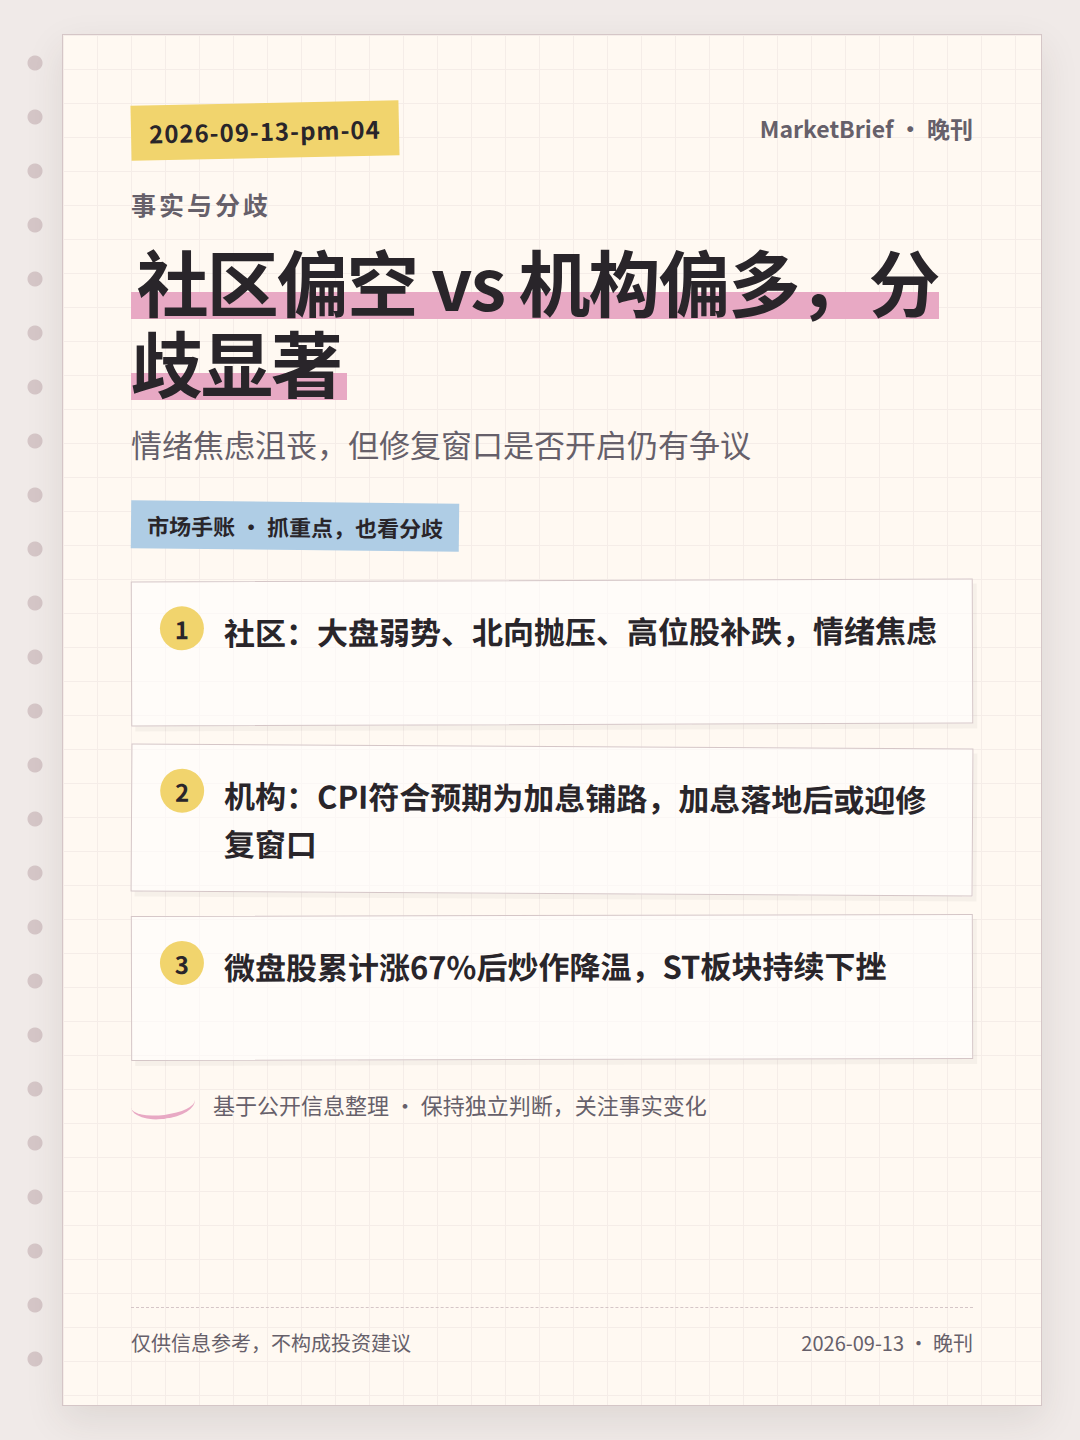
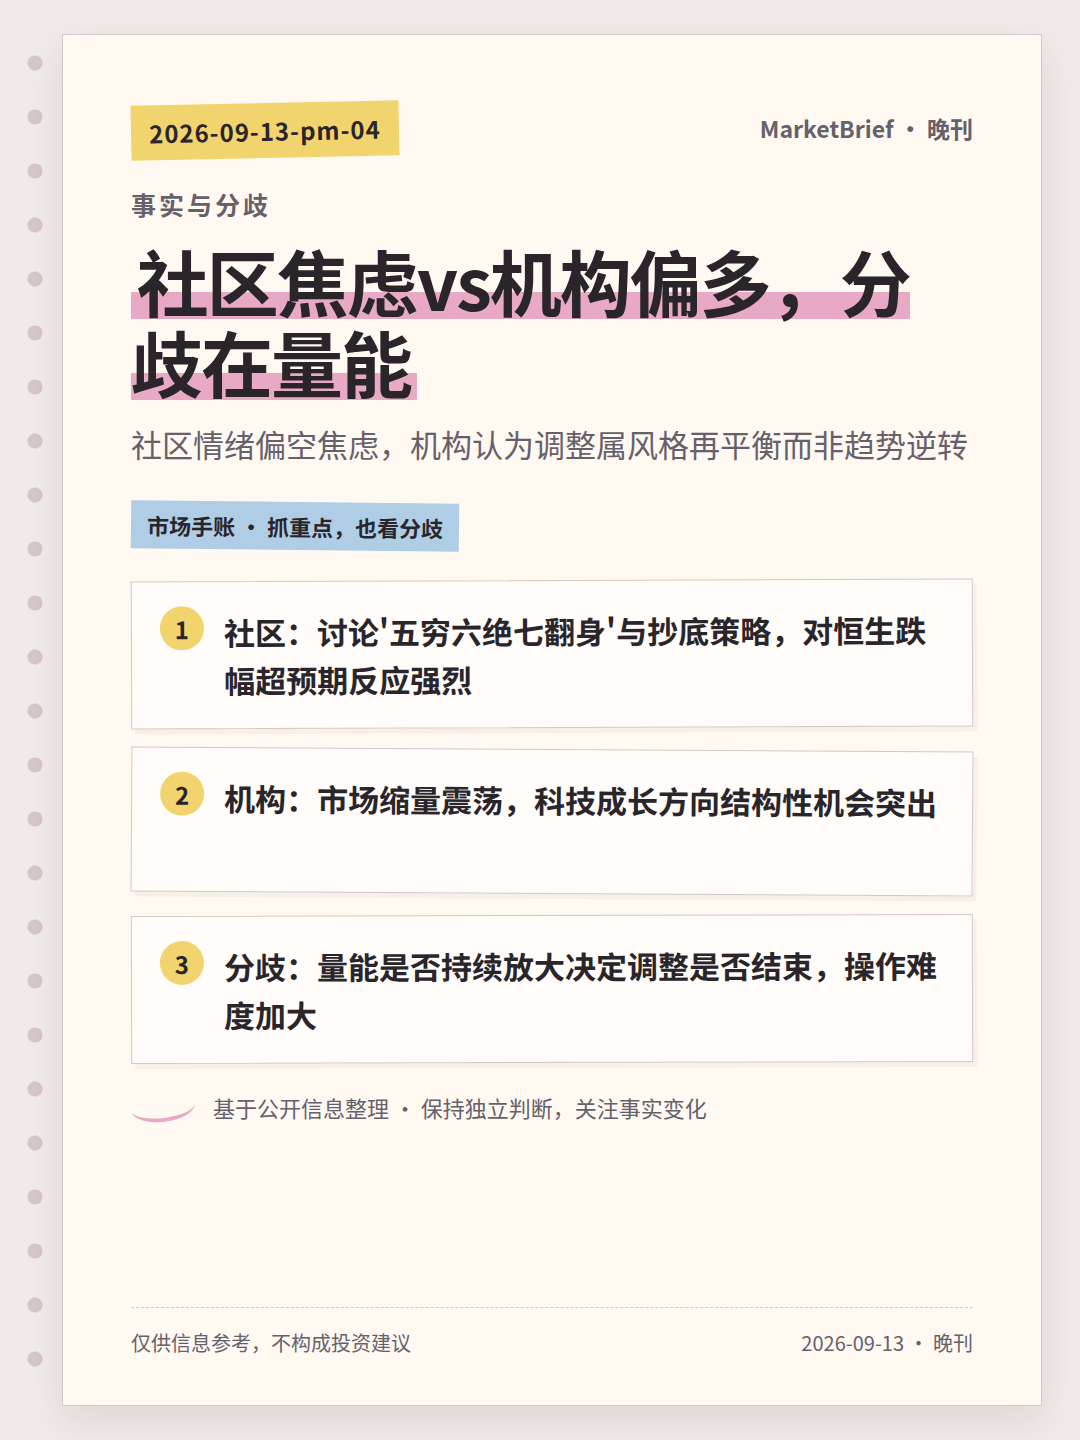
MarketBrief: publish dated edition

diff --git a/output/marketbrief/2026-09-13/pm/2026-09-13-pm-03.html b/output/marketbrief/2026-09-13/pm/2026-09-13-pm-03.html
@@ -3,7 +3,7 @@
 *{box-sizing:border-box}html,body{margin:0;width:1080px;height:1440px;background:#F0EAE8;color:#29252A;font-family:'Noto Sans CJK SC','Microsoft YaHei',sans-serif}
 body:before{content:'';position:absolute;left:24px;top:36px;bottom:36px;width:22px;background:radial-gradient(circle,#D5C6C7 0 7px,transparent 8px) center top/22px 54px repeat-y}
 main{position:relative;margin:34px 38px 34px 62px;width:980px;height:1372px;padding:68px 68px 52px;background:#FFF9F2;border:1px solid #D5C6C7;box-shadow:0 14px 36px rgba(58,47,39,.10);overflow:hidden}
-main:after{content:'';position:absolute;inset:0;pointer-events:none;opacity:.22;background-image:linear-gradient(#D5C6C7 1px,transparent 1px),linear-gradient(90deg,#D5C6C7 1px,transparent 1px);background-size:34px 34px}
+main:after{content:none}
 .top{position:relative;z-index:1;display:flex;justify-content:space-between;align-items:flex-start;margin-bottom:28px}
 .tape{display:inline-block;padding:10px 18px;background:#F1D46D;transform:rotate(-1.2deg);font-size:24px;font-weight:800;letter-spacing:1px}
 .edition{font-size:23px;font-weight:700;color:#66606A;padding-top:8px}
@@ -24,10 +24,10 @@ footer{position:absolute;z-index:1;left:68px;right:68px;bottom:48px;border-top:1
 <body><main>
 <div class="top"><span class="tape">2026-09-13-pm-03</span><span class="edition">MarketBrief · 晚刊</span></div>
 <div class="kicker">研究观点</div>
-<h1><span>机构偏多但分歧加大，科技成长仍是结构性主线</span></h1>
-<div class="sub">多家券商建议两手准备，AI链涨价与海外通胀是双刃剑</div>
+<h1><span>机构称科技仍是结构性主线</span></h1>
+<div class="sub">多家研报看好AI产业链、半导体设备、光伏、资源等方向</div>
 <div class="ribbon">市场手账 · 抓重点，也看分歧</div>
-<div class="notes"><section class="note"><b>1</b><p>东吴、华金：科技为结构性机会主线，AI链涨价推动价格回升</p></section><section class="note"><b>2</b><p>中银、联储：输入性通胀叠加AI链涨价，海外流动性扰动加大</p></section><section class="note"><b>3</b><p>万联、西南：十五五投融资综合改革为牵引，政策方向明确</p></section></div>
+<div class="notes"><section class="note"><b>1</b><p>AI产业链：鹏鼎控股AI业务放量，顺络电子TLVR电感构筑AI增量</p></section><section class="note"><b>2</b><p>半导体设备：精测电子三大业务全面增长，强一股份高端探针卡国产替代</p></section><section class="note"><b>3</b><p>光伏：隆基绿能BC组件销量同比高增，通威股份组件出海比例提升</p></section></div>
 <div class="margin"><span class="sketch"></span><span>基于公开信息整理 · 保持独立判断，关注事实变化</span></div>
 <footer><span>仅供信息参考，不构成投资建议</span><span>2026-09-13 · 晚刊</span></footer>
 </main></body></html>

diff --git a/output/marketbrief/2026-09-13/pm/2026-09-13-pm-04.html b/output/marketbrief/2026-09-13/pm/2026-09-13-pm-04.html
@@ -3,7 +3,7 @@
 *{box-sizing:border-box}html,body{margin:0;width:1080px;height:1440px;background:#F0EAE8;color:#29252A;font-family:'Noto Sans CJK SC','Microsoft YaHei',sans-serif}
 body:before{content:'';position:absolute;left:24px;top:36px;bottom:36px;width:22px;background:radial-gradient(circle,#D5C6C7 0 7px,transparent 8px) center top/22px 54px repeat-y}
 main{position:relative;margin:34px 38px 34px 62px;width:980px;height:1372px;padding:68px 68px 52px;background:#FFF9F2;border:1px solid #D5C6C7;box-shadow:0 14px 36px rgba(58,47,39,.10);overflow:hidden}
-main:after{content:'';position:absolute;inset:0;pointer-events:none;opacity:.22;background-image:linear-gradient(#D5C6C7 1px,transparent 1px),linear-gradient(90deg,#D5C6C7 1px,transparent 1px);background-size:34px 34px}
+main:after{content:none}
 .top{position:relative;z-index:1;display:flex;justify-content:space-between;align-items:flex-start;margin-bottom:28px}
 .tape{display:inline-block;padding:10px 18px;background:#F1D46D;transform:rotate(-1.2deg);font-size:24px;font-weight:800;letter-spacing:1px}
 .edition{font-size:23px;font-weight:700;color:#66606A;padding-top:8px}
@@ -24,10 +24,10 @@ footer{position:absolute;z-index:1;left:68px;right:68px;bottom:48px;border-top:1
 <body><main>
 <div class="top"><span class="tape">2026-09-13-pm-04</span><span class="edition">MarketBrief · 晚刊</span></div>
 <div class="kicker">事实与分歧</div>
-<h1><span>社区偏空 vs 机构偏多，分歧显著</span></h1>
-<div class="sub">情绪焦虑沮丧，但修复窗口是否开启仍有争议</div>
+<h1><span>社区焦虑vs机构偏多，分歧在量能</span></h1>
+<div class="sub">社区情绪偏空焦虑，机构认为调整属风格再平衡而非趋势逆转</div>
 <div class="ribbon">市场手账 · 抓重点，也看分歧</div>
-<div class="notes"><section class="note"><b>1</b><p>社区：大盘弱势、北向抛压、高位股补跌，情绪焦虑</p></section><section class="note"><b>2</b><p>机构：CPI符合预期为加息铺路，加息落地后或迎修复窗口</p></section><section class="note"><b>3</b><p>微盘股累计涨67%后炒作降温，ST板块持续下挫</p></section></div>
+<div class="notes"><section class="note"><b>1</b><p>社区：讨论&#x27;五穷六绝七翻身&#x27;与抄底策略，对恒生跌幅超预期反应强烈</p></section><section class="note"><b>2</b><p>机构：市场缩量震荡，科技成长方向结构性机会突出</p></section><section class="note"><b>3</b><p>分歧：量能是否持续放大决定调整是否结束，操作难度加大</p></section></div>
 <div class="margin"><span class="sketch"></span><span>基于公开信息整理 · 保持独立判断，关注事实变化</span></div>
 <footer><span>仅供信息参考，不构成投资建议</span><span>2026-09-13 · 晚刊</span></footer>
 </main></body></html>

diff --git a/output/marketbrief/2026-09-13/pm/2026-09-13-pm-02.html b/output/marketbrief/2026-09-13/pm/2026-09-13-pm-02.html
@@ -3,7 +3,7 @@
 *{box-sizing:border-box}html,body{margin:0;width:1080px;height:1440px;background:#F0EAE8;color:#29252A;font-family:'Noto Sans CJK SC','Microsoft YaHei',sans-serif}
 body:before{content:'';position:absolute;left:24px;top:36px;bottom:36px;width:22px;background:radial-gradient(circle,#D5C6C7 0 7px,transparent 8px) center top/22px 54px repeat-y}
 main{position:relative;margin:34px 38px 34px 62px;width:980px;height:1372px;padding:68px 68px 52px;background:#FFF9F2;border:1px solid #D5C6C7;box-shadow:0 14px 36px rgba(58,47,39,.10);overflow:hidden}
-main:after{content:'';position:absolute;inset:0;pointer-events:none;opacity:.22;background-image:linear-gradient(#D5C6C7 1px,transparent 1px),linear-gradient(90deg,#D5C6C7 1px,transparent 1px);background-size:34px 34px}
+main:after{content:none}
 .top{position:relative;z-index:1;display:flex;justify-content:space-between;align-items:flex-start;margin-bottom:28px}
 .tape{display:inline-block;padding:10px 18px;background:#F1D46D;transform:rotate(-1.2deg);font-size:24px;font-weight:800;letter-spacing:1px}
 .edition{font-size:23px;font-weight:700;color:#66606A;padding-top:8px}
@@ -24,10 +24,10 @@ footer{position:absolute;z-index:1;left:68px;right:68px;bottom:48px;border-top:1
 <body><main>
 <div class="top"><span class="tape">2026-09-13-pm-02</span><span class="edition">MarketBrief · 晚刊</span></div>
 <div class="kicker">热点主线</div>
-<h1><span>AI硬件逆势轮动，PCB/MLCC/光互联全线活跃</span></h1>
-<div class="sub">超声电子5天3板，风华高科涨停，迈威尔催化光互联</div>
+<h1><span>AI硬件逆势回暖：PCB与MLCC涨停潮</span></h1>
+<div class="sub">超声电子5天3板，多只个股涨停，AI算力与光通信方向偏多</div>
 <div class="ribbon">市场手账 · 抓重点，也看分歧</div>
-<div class="notes"><section class="note"><b>1</b><p>PCB：超声电子5天3板，AI算力需求持续放量</p></section><section class="note"><b>2</b><p>MLCC：风华高科涨停，供需缺口延续</p></section><section class="note"><b>3</b><p>光互联：迈威尔大涨催化，CPO/半导体材料领涨</p></section></div>
+<div class="notes"><section class="note"><b>1</b><p>PCB：超声电子5天3板，崇达技术/骏亚科技/嘉立创/博敏电子涨停</p></section><section class="note"><b>2</b><p>MLCC：风华高科/双星新材涨停，昀冢科技涨超18%</p></section><section class="note"><b>3</b><p>FCC靴子落地缓解光通信担忧，CIOE光博会开幕带来封装设备新变量</p></section></div>
 <div class="margin"><span class="sketch"></span><span>基于公开信息整理 · 保持独立判断，关注事实变化</span></div>
 <footer><span>仅供信息参考，不构成投资建议</span><span>2026-09-13 · 晚刊</span></footer>
 </main></body></html>

diff --git a/output/marketbrief/2026-09-13/pm/2026-09-13-pm-05.html b/output/marketbrief/2026-09-13/pm/2026-09-13-pm-05.html
@@ -3,7 +3,7 @@
 *{box-sizing:border-box}html,body{margin:0;width:1080px;height:1440px;background:#F0EAE8;color:#29252A;font-family:'Noto Sans CJK SC','Microsoft YaHei',sans-serif}
 body:before{content:'';position:absolute;left:24px;top:36px;bottom:36px;width:22px;background:radial-gradient(circle,#D5C6C7 0 7px,transparent 8px) center top/22px 54px repeat-y}
 main{position:relative;margin:34px 38px 34px 62px;width:980px;height:1372px;padding:68px 68px 52px;background:#FFF9F2;border:1px solid #D5C6C7;box-shadow:0 14px 36px rgba(58,47,39,.10);overflow:hidden}
-main:after{content:'';position:absolute;inset:0;pointer-events:none;opacity:.22;background-image:linear-gradient(#D5C6C7 1px,transparent 1px),linear-gradient(90deg,#D5C6C7 1px,transparent 1px);background-size:34px 34px}
+main:after{content:none}
 .top{position:relative;z-index:1;display:flex;justify-content:space-between;align-items:flex-start;margin-bottom:28px}
 .tape{display:inline-block;padding:10px 18px;background:#F1D46D;transform:rotate(-1.2deg);font-size:24px;font-weight:800;letter-spacing:1px}
 .edition{font-size:23px;font-weight:700;color:#66606A;padding-top:8px}
@@ -24,10 +24,10 @@ footer{position:absolute;z-index:1;left:68px;right:68px;bottom:48px;border-top:1
 <body><main>
 <div class="top"><span class="tape">2026-09-13-pm-05</span><span class="edition">MarketBrief · 晚刊</span></div>
 <div class="kicker">结论与风险</div>
-<h1><span>次日观察：加息落地、AI轮动、低位补涨</span></h1>
-<div class="sub">外部变量密集，方向不确定，两手准备是关键</div>
+<h1><span>次日观察：量能、AI持续性、美联储表态</span></h1>
+<div class="sub">五个关键变量决定市场能否止跌企稳</div>
 <div class="ribbon">市场手账 · 抓重点，也看分歧</div>
-<div class="notes"><section class="note"><b>1</b><p>观察美联储加息落地后市场反应</p></section><section class="note"><b>2</b><p>关注AI硬件轮动持续性与高位分歧</p></section><section class="note"><b>3</b><p>留意低位板块补涨能否延续，微盘股降温是否扩散</p></section></div>
+<div class="notes"><section class="note"><b>1</b><p>量能变化：成交额能否维持在2万亿以上</p></section><section class="note"><b>2</b><p>AI硬件持续性：PCB/MLCC涨停潮能否延续</p></section><section class="note"><b>3</b><p>美联储后续表态：CPI已落地，关注加息节奏</p></section></div>
 <div class="margin"><span class="sketch"></span><span>基于公开信息整理 · 保持独立判断，关注事实变化</span></div>
 <footer><span>仅供信息参考，不构成投资建议</span><span>2026-09-13 · 晚刊</span></footer>
 </main></body></html>

diff --git a/output/marketbrief/2026-09-13/pm/2026-09-13-pm-01.html b/output/marketbrief/2026-09-13/pm/2026-09-13-pm-01.html
@@ -3,7 +3,7 @@
 *{box-sizing:border-box}html,body{margin:0;width:1080px;height:1440px;background:#F0EAE8;color:#29252A;font-family:'Noto Sans CJK SC','Microsoft YaHei',sans-serif}
 body:before{content:'';position:absolute;left:24px;top:36px;bottom:36px;width:22px;background:radial-gradient(circle,#D5C6C7 0 7px,transparent 8px) center top/22px 54px repeat-y}
 main{position:relative;margin:34px 38px 34px 62px;width:980px;height:1372px;padding:68px 68px 52px;background:#FFF9F2;border:1px solid #D5C6C7;box-shadow:0 14px 36px rgba(58,47,39,.10);overflow:hidden}
-main:after{content:'';position:absolute;inset:0;pointer-events:none;opacity:.22;background-image:linear-gradient(#D5C6C7 1px,transparent 1px),linear-gradient(90deg,#D5C6C7 1px,transparent 1px);background-size:34px 34px}
+main:after{content:none}
 .top{position:relative;z-index:1;display:flex;justify-content:space-between;align-items:flex-start;margin-bottom:28px}
 .tape{display:inline-block;padding:10px 18px;background:#F1D46D;transform:rotate(-1.2deg);font-size:24px;font-weight:800;letter-spacing:1px}
 .edition{font-size:23px;font-weight:700;color:#66606A;padding-top:8px}
@@ -24,10 +24,10 @@ footer{position:absolute;z-index:1;left:68px;right:68px;bottom:48px;border-top:1
 <body><main>
 <div class="top"><span class="tape">2026-09-13-pm-01</span><span class="edition">MarketBrief · 晚刊</span></div>
 <div class="kicker">封面</div>
-<h1><span>调整第9天，市场在等一个&quot;靴子&quot;</span></h1>
-<div class="sub">指数跌破前低，但AI硬件逆势轮动，分歧中藏着机会</div>
+<h1><span>调整第9天，指数破位3852</span></h1>
+<div class="sub">超4800只个股下跌，但AI硬件逆势撑住主线</div>
 <div class="ribbon">市场手账 · 抓重点，也看分歧</div>
-<div class="notes"><section class="note"><b>1</b><p>成交额放量至1.97万亿，超4800只个股下跌</p></section><section class="note"><b>2</b><p>指数跌1.18%跌破前低3915点，调整第9天</p></section><section class="note"><b>3</b><p>美联储CPI落地，加息前奏还是修复窗口？</p></section></div>
+<div class="notes"><section class="note"><b>1</b><p>沪指跌1.18%最低3852点，跌破3915前低</p></section><section class="note"><b>2</b><p>成交额放量至1.97万亿，较前日增加3248亿</p></section><section class="note"><b>3</b><p>PCB/MLCC涨停潮，AI硬件成为唯一主线</p></section></div>
 <div class="margin"><span class="sketch"></span><span>基于公开信息整理 · 保持独立判断，关注事实变化</span></div>
 <footer><span>仅供信息参考，不构成投资建议</span><span>2026-09-13 · 晚刊</span></footer>
 </main></body></html>

diff --git a/output/marketbrief/2026-09-13/pm/brief.md b/output/marketbrief/2026-09-13/pm/brief.md
@@ -1,48 +1,42 @@
-# 调整第9天：AI硬件逆势轮动，市场在等一个"靴子"
+# 调整第9天，指数破位3852：AI硬件撑住主线，分歧在量能
 
-> A股调整第9天，成交额放量至1.97万亿但超4800只个股下跌，指数跌破前低。AI硬件产业链逆势活跃，PCB/MLCC/光互联多股涨停；美联储CPI落地为加息铺路，构成短期最大外部变量。机构偏多但社区偏空，分歧显著。
+> 沪指跌破3915前低、最低触及3852点，超4800只个股下跌，成交额放量至1.97万亿。但PCB与MLCC板块逆势涨停潮，AI硬件成为唯一主线。美联储CPI符合预期但美债收益率创18年新高，DeepSeek备战科创板IPO提振AI应用情绪。机构称科技仍是结构性主线，社区情绪偏空焦虑，分歧在于量能能否跟上。
 
-## 大盘：调整第9天，情绪承压
+## 指数破位，调整进入第9天
 
-今日A股延续调整态势，沪深两市成交额放量至1.97万亿元，较前日增加约3248亿元。指数下跌1.18%，跌破前低3915点，调整进入第9天。超4800只个股下跌，市场情绪明显承压，北向资金抛压与高位股补跌成为主要拖累。
+沪指当日下跌1.18%，最低触及3852点，跌破3915前低，超4800只个股下跌，成交额放量至1.97万亿，较前日增加3248亿。这是市场调整的第9天，社区情绪偏空焦虑，讨论'五穷六绝七翻身'与抄底策略，对恒生跌幅超预期反应强烈。
 
-多家券商策略研报一致认为，短期市场震荡分化格局难以改变，建议投资者两手准备——既关注科技成长主线的结构性机会，也留意低位板块的补涨窗口。
+多家机构指出市场缩量震荡、科技成长方向结构性机会突出，认为调整属风格再平衡而非趋势逆转。但社区与机构之间的分歧在于：量能是否持续放大决定调整是否结束，若AI虹吸其他板块则分化加剧，若无法虹吸则AI回落带跌全局，操作难度加大。
 
-## 主线一：AI硬件逆势轮动
+## AI硬件逆势回暖：PCB与MLCC涨停潮
 
-尽管大盘走弱，AI硬件产业链表现活跃，成为当日最强主线。PCB板块中超声电子录得5天3板，MLCC概念风华高科涨停，光互联方向受海外龙头迈威尔大涨催化，CPO与半导体材料领涨。
+在指数下跌的背景下，AI硬件方向逆势活跃。PCB板块超声电子5天3板，崇达技术、骏亚科技、嘉立创、博敏电子涨停；MLCC板块风华高科、双星新材涨停，昀冢科技涨超18%。
 
-机构研报层面，AI算力产业链持续放量：鹏鼎控股AI业务对冲端侧疲软，顺络电子TLVR电感与钽电容构筑AI增量，英维克液冷龙头地位稳固，广电运通AI机器人及算力前景可期。半导体国产替代加速，强一股份高端探针卡国产替代与产品升级，思特威3+AI驱动多元发展。
+社区对AI算力与光通信方向偏多，FCC靴子落地缓解光通信担忧，CIOE光博会开幕带来封装设备新变量，电子布提价加速带旺CCL链。机构研报集中看好AI产业链，鹏鼎控股AI业务放量对冲端侧疲软，顺络电子TLVR电感与钽电容构筑AI增量，英维克股权激励彰显液冷龙头信心。
 
-但社区情绪显示，AI高位股分歧加大，虹吸效应明显，部分投资者对高位追涨持谨慎态度。AI链涨价推动价格回升的同时，也加剧了海外输入性通胀压力。
+但AI硬件能否持续独立走强取决于中报业绩兑现与海外政策变化，若CPI超预期或加息预期升温则估值承压。
 
-## 主线二：风格再平衡，低位补涨
+## 美联储CPI与加息预期扰动
 
-AI高位震荡的同时，前期错杀板块出现阶段性补涨。有色、化工、券商、创新药、储能等低位品种尾盘走强，带动市场情绪边际修复。
+美国8月CPI符合预期，但美长债收益率创逾18年新高、接近5%，欧央行启动加息，市场关注对全球风险资产的估值压制。社区对宏观数据关注度较高，讨论美债收益率创新高对A股的影响，情绪偏谨慎。
 
-稀土行业方面，矿端供给增量放缓，行业整合形成南北两大巨头，稀土价格有望底部回升。有色金属领域，矿端约束强化铜价中枢上移，钨资源国产替代加速，能源金属景气分化。
+策略研报称CPI为'恰到好处的加息前奏'，加息落地后短期无估值压制，市场或迎修复窗口；但中美AI限制再收紧构成额外风险。CPI数据已落地但加息节奏仍存变数，若后续数据超预期则估值压力延续，若加息落地则市场或迎修复窗口。
 
-## 外部变量：美联储CPI与加息
+## DeepSeek IPO与出口管制：两个催化剂
 
-今晚公布的美国8月CPI数据符合预期，被视为加息前奏。多家券商认为，CPI数据为加息铺路，加息落地后短期无估值压制，市场或迎修复窗口。
+业内预估DeepSeek上市后市值1.5万亿~2.5万亿，短期对AI应用方向情绪利好，DS概念已提前异动。但IPO时间表与估值尚未确定，概念炒作能否持续取决于后续业绩兑现。
 
-但风险不容忽视：美长债收益率创逾18年新高、接近5%，输入性通胀叠加AI链涨价，海外流动性预期扰动加大。美国对中国AI限制再收紧，对科技板块构成额外压制。
-
-## 风险信号：微盘股降温
-
-微盘股指数累计上涨67%后，业绩预期承压，炒作降温。ST板块持续下挫，退市新规对小盘品种影响显现。这一趋势提醒投资者，小盘股的高弹性伴随高风险，业绩验证是关键。
-
-## 政策面：十五五路线图明确
-
-十五五规划明确资本市场路线图，投融资综合改革为牵引。证券四大赛道扩容周期弱化，上市险企中报盈利稳增，银行理财信披新规施行。政策方向明确但落地节奏待观察。
+社区用户看好8月1日镓锗管制政策落地，看多云南锗业、驰宏锌锗、中金岭南等标的。出口管制成为资源板块催化剂，但政策落地时间与力度存在不确定性，若政策不及预期则相关标的面临回调风险。
 
 ## 次日观察变量
 
-1. 美联储加息落地后市场反应
-2. AI硬件轮动持续性
-3. 低位板块补涨能否延续
-4. 北向资金流向变化
-5. 微盘股降温是否扩散
+1. **量能变化**：成交额能否维持在2万亿以上，决定调整是否结束
+2. **AI硬件持续性**：PCB/MLCC涨停潮能否延续，还是获利盘兑现
+3. **美联储后续表态**：CPI数据已落地，关注美联储官员讲话与加息节奏
+4. **DeepSeek IPO进展**：时间表与估值预期是否进一步明确
+5. **镓锗管制政策**：8月1日落地时间与力度
+
+基于公开信息整理，以上分析不构成投资建议。
 
 ## 信息口径
 
@@ -50,8 +44,8 @@ AI高位震荡的同时，前期错杀板块出现阶段性补涨。有色、化
 
 ---
 
-本文基于公开信息整理，仅供参考，不构成任何投资建议。市场有风险，投资需谨慎。文中提及的个股、板块及观点均为信息汇总，不代表推荐或背书。投资者应根据自身风险承受能力独立判断，必要时咨询专业顾问。
+本文基于公开信息整理，仅供参考，不构成任何投资建议。股市有风险，投资需谨慎。文中提及的个股仅为市场现象描述，不代表推荐或看多/看空立场。读者应结合自身风险承受能力独立判断，必要时咨询专业投资顾问。
 
 刊期：2026-09-13 晚刊  
-生成时间：2026-09-13T13:57:08+08:00  
-模型：`SenseNova` · 调用 7 次 · Token 28554
+生成时间：2026-09-13T15:24:12+08:00  
+模型：`SenseNova` · 调用 7 次 · Token 28250
